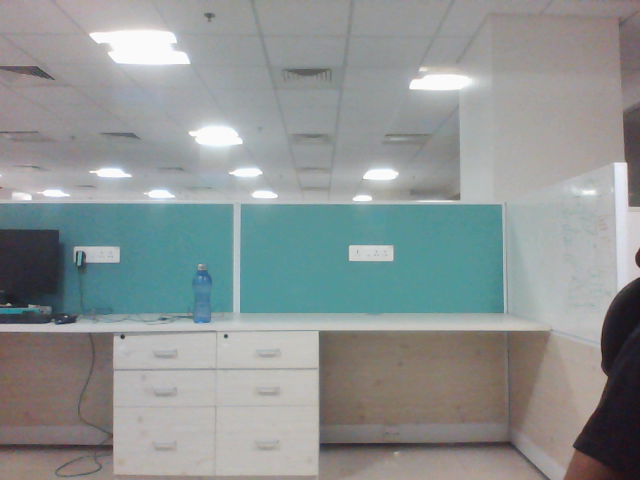
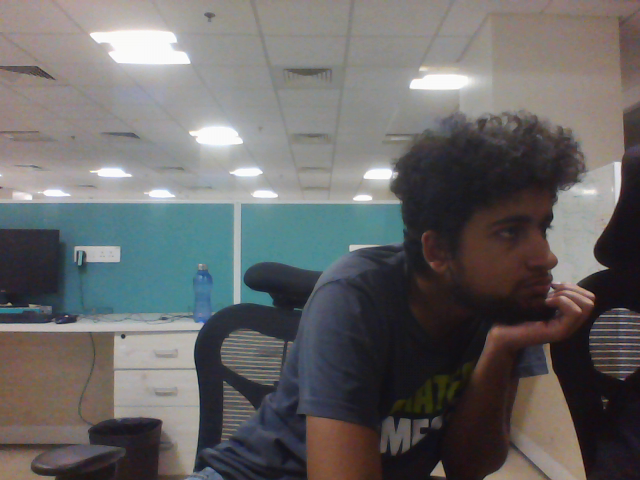
kjkj
bnm

diff --git a/body.py b/body.py
@@ -58,10 +58,18 @@ while(1):
 #        for (ex, ey, ew, eh) in eyes:
 #            cv2.rectangle(roi_color, (ex, ey), (ex + ew, ey + eh), (0, 127, 255), 2)
 
-    fgmask = fgbg.apply(frame)
+#    fgmask = fgbg.apply(frame)
+#    final = np.absolute(frame - fgmask)
+    original_image = frame
+    gray_original = cv2.cvtColor(original_image, cv2.COLOR_BGR2GRAY)
+    background_image = cv2.imread('background.png', cv2.IMREAD_COLOR)
+    gray_background = cv2.cvtColor(background_image, cv2.COLOR_BGR2GRAY)
+
+    foreground = np.absolute(gray_original - gray_background)
+    foreground[foreground > 0] = 255
 
     # Display an image in a window
-    cv2.imshow('EagleEye', fgmask)
+    cv2.imshow('EagleEye', foreground)
 
     # Wait for Esc key to stop
     k = cv2.waitKey(30) & 0xff
